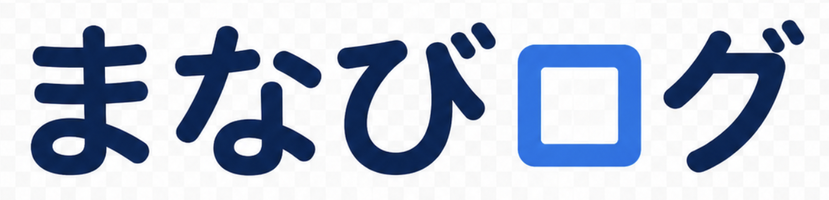
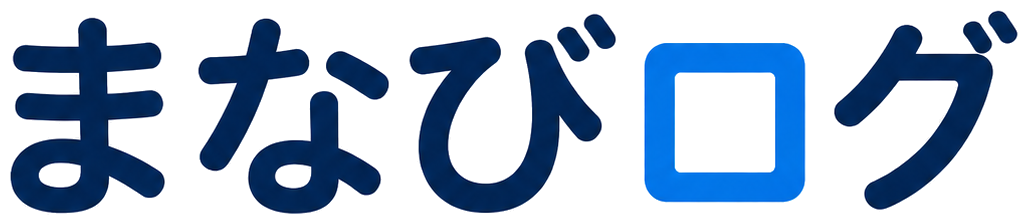
ワードマーク画像を透過修正し、スプラッシュの静止時間を調整
- public/wordmark.png: 全ピクセルのアルファが255で実質不透明だった
  ため、白背景の箱のように見えていた問題を修正。添付のブランド
  ロックアップ画像から「まなびログ」文字部分を切り出し、白フリンジ
  が出ないよう色分離処理をした上で正しく透過するPNGに差し替え
  （Navbar・/login・/login-epis・スプラッシュ全てに反映）
- SplashScreen: 静止時間を0.75秒→1.00秒に変更
  （フェードイン0.55秒→静止1.00秒→フェードアウト0.55秒）

Changed region(s): [[0.0, 0.03, 0.9952, 0.96]]

diff --git a/app/components/SplashScreen.tsx b/app/components/SplashScreen.tsx
@@ -3,7 +3,7 @@
 import { useEffect, useRef, useState } from 'react';
 
 const FADE_MS = 550;
-const HOLD_MS = 750;
+const HOLD_MS = 1000;
 
 export default function SplashScreen({ onDone }: { onDone: () => void }) {
   const [visible, setVisible] = useState(false);
